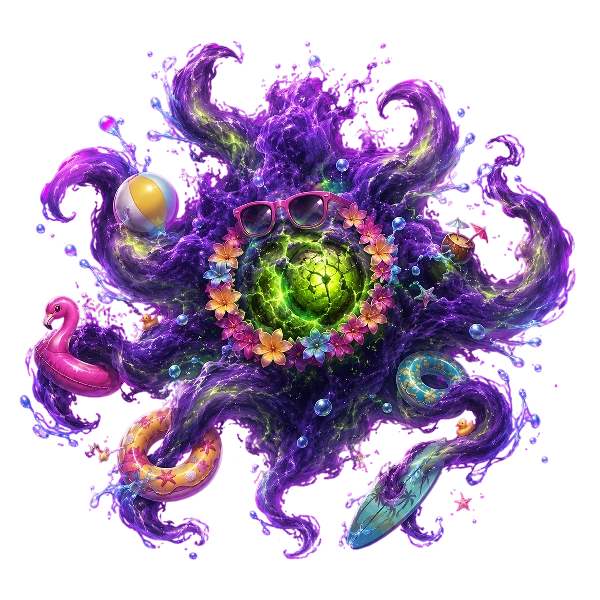
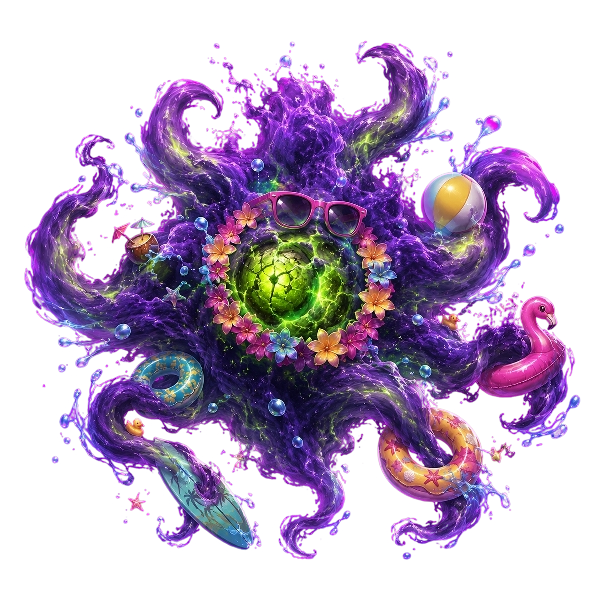
fix trample targeting

diff --git a/games/tactical-arena/src/main.js b/games/tactical-arena/src/main.js
@@ -3,7 +3,7 @@ import { UNIT_TYPES, getArt, getAvailableArts, getCommandBuffStats, getEffective
 import { areAllies, areEnemies, createBattleState, findUnit, isWallAt, unitAt } from "./core/state.js";
 import { canUseArt, getFirePlacementTiles, getFlightTiles, getFootworkStepOptions, getFootworkSteps, getLegalFleeTiles, getLineTargets, getProtectLandingTiles, getRevivePlacementTiles, getReviveTargets, getRushStepOptions, getRushSteps, getSelfBlastRadius, getSummonPlacementTiles, getTargetedBlastAimTiles, getVolleyShotAimOptions, getVolleyShotCells, getWallPlacementTiles } from "./rules/arts.js";
 import { getBasicAttackDamageType, isWallBetween } from "./rules/combat.js";
-import { chebyshevDistance, positionKey } from "./rules/movement.js";
+import { canTrample, chebyshevDistance, getTrampleMoveOptions, positionKey } from "./rules/movement.js";
 import { isStunned } from "./rules/statuses.js";
 import { applyCommand } from "./core/reducer.js";
 import { chooseActivation, cpuRng } from "./ai/cpuController.js";
@@ -257,12 +257,18 @@ function announceTurnChange(prevPlayer) {
 
 // --- Command dispatch ---
 
+// Set by every successful dispatch() so a caller that needs the resolved events
+// (e.g. a trampling MOVE_UNIT's harmed/damageByTarget/path) can read them without
+// dispatch() itself growing animation concerns.
+let lastDispatchEvents = [];
+
 function dispatch(command) {
   const result = applyCommand(state, command);
   if (!result.accepted) {
     setMessage(readableError(result.errorCode), true);
     return false;
   }
+  lastDispatchEvents = result.events ?? [];
   const prevPlayer = state.currentPlayer;
   state = result.nextState;
   broadcastIfLocal(command);
@@ -1420,7 +1426,67 @@ async function handleTile(position) {
     render();
     return;
   }
-  if (mode === "move") {
+  if (mode === "move" && canTrample(unit)) {
+    // RAGE Trample (Fat Knight): targeted exactly like Footwork/Stumble — one
+    // adjacent tile at a time via footworkPath, not a single click straight to a
+    // far destination. Landing on an enemy tramples it (true damage) and MUST
+    // continue; landing on an empty tile both is and commits the final step.
+    const options = getTrampleMoveOptions(state, unit, footworkPath);
+    if (!options.has(positionKey(position))) {
+      setMessage("Trample: choose the next highlighted tile.", true);
+      render();
+      return;
+    }
+    footworkPath.push(position);
+    if (unitAt(state, position)) {
+      const maxSteps = getEffectiveStats(unit, state).moveRange;
+      setMessage(`Trample: enemy crossed. Choose step ${footworkPath.length + 1} of up to ${maxSteps}.`);
+      render();
+      return;
+    }
+    const from = { ...unit.position };
+    const actorBefore = unit;
+    const path = [...footworkPath];
+    const dest = path[path.length - 1];
+    footworkPath = [];
+    if (dispatch(moveUnit(state.currentPlayer, unit.id, dest.x, dest.y, path))) {
+      const moved = lastDispatchEvents.find((e) => e.type === "UNIT_MOVED");
+      const completesActivation = state.activation?.primaryUsed;
+      mode = null;
+      setMessage(completesActivation ? "Moved. Activation complete." : "Moved. Now attack or defend to finish.");
+      resolving = true;
+      render();
+      // Give the harmed tiles the same dash + contact-hit presentation Footwork/
+      // Stumble use, instead of silently sliding past the units it just damaged.
+      if (moved?.harmed?.length) {
+        const metrics = createBoardMetrics(state.size);
+        const harmedByTile = new Map();
+        for (const id of moved.harmed) {
+          const target = findUnit(state, id);
+          if (target) harmedByTile.set(positionKey(target.position), target);
+        }
+        await effects.footworkCharge(actorBefore, moved.path, async (tile) => {
+          const target = harmedByTile.get(positionKey(tile));
+          if (!target) return;
+          const center = unitCenter(metrics, target);
+          audio.play("attackHit");
+          effects.impact(center, false, "true");
+          await effects.hitRecoil(target.id, target.position, false);
+          const amount = moved.damageByTarget?.[target.id] ?? 0;
+          await effects.floatText(center, `-${amount}`, "#ff7684");
+          if (target.hp <= 0) await effects.deathDissolve(target.id, target.position, teamColor(target.player));
+        });
+      } else {
+        await effects.animateMovement(unit.id, from, dest);
+      }
+      resolving = false;
+      if (completesActivation) maybeAutoFinish();
+      render();
+      return;
+    }
+    render();
+    return;
+  } else if (mode === "move") {
     const from = { ...unit.position };
     if (dispatch(moveUnit(state.currentPlayer, unit.id, position.x, position.y))) {
       const completesActivation = state.activation?.primaryUsed;
@@ -1746,6 +1812,8 @@ async function handleActionClick(action, unit) {
     rewindTargetId = null;
     if (deselect) {
       setMessage("Choose an action below.");
+    } else if (action === "move" && canTrample(unit)) {
+      setMessage(`Trample: choose step 1 of up to ${getEffectiveStats(unit, state).moveRange} — walking into an enemy tramples it for true damage.`);
     } else if (action === "footwork") {
       const footwork = getUnitType(unit.type).arts.find((a) => a.id === "footwork");
       setMessage(`Footwork (${footwork.mpCost} MP): ${footwork.description} Choose step 1 of ${getFootworkSteps(unit)}.`);

diff --git a/games/tactical-arena/src/rules/movement.js b/games/tactical-arena/src/rules/movement.js
@@ -49,7 +49,7 @@ export function traceGridLine(x0, y0, x1, y1) {
   return cells;
 }
 
-function canMoveThroughEnemies(unit) {
+export function canTrample(unit) {
   return Math.max(0, Number(getRageEffectValue(unit, "trampleDamage", 0)) || 0) > 0;
 }
 
@@ -69,7 +69,7 @@ export function getLegalMoves(state, unit) {
     }
     return legal;
   }
-  const passEnemies = canMoveThroughEnemies(unit);
+  const passEnemies = canTrample(unit);
   const queue = [{ ...unit.position, distance: 0 }];
   const visited = new Set([positionKey(unit.position)]);
   const legal = new Set();
@@ -93,10 +93,64 @@ export function getLegalMoves(state, unit) {
   return legal;
 }
 
+// RAGE Trample (Fat Knight) targets a NORMAL move the same way Footwork/Stumble
+// target a rushPath ART: click one orthogonal tile at a time, walking through
+// enemies for true damage, rather than a single click straight to a distant
+// destination. Unlike rushPath, the walk is variable-length (0..moveRange) — it
+// simply ends the instant `path` lands on an empty tile, so a click on an empty
+// tile is both "the next step" and "confirm the move" at once. `getTrampleMoveOptions`
+// mirrors getRushStepOptions (rules/arts.js) but bounds by effective moveRange
+// instead of a fixed extraMove length, and never forces "last step must be empty"
+// early — the player can keep walking through further enemies as long as at least
+// one more step remains to land on.
+export function getTrampleMoveOptions(state, actor, path) {
+  const maxSteps = getEffectiveStats(actor, state).moveRange;
+  if (path.length >= maxSteps) return new Set();
+  const prior = path.length ? path[path.length - 1] : actor.position;
+  const visited = new Set([positionKey(actor.position), ...path.map(positionKey)]);
+  const roomAfterThisStep = maxSteps - (path.length + 1);
+  const options = new Set();
+
+  for (const direction of ORTHOGONAL_DIRECTIONS) {
+    const candidate = { x: prior.x + direction.x, y: prior.y + direction.y };
+    const key = positionKey(candidate);
+    if (!isOnBoard(state, candidate) || visited.has(key) || isWallAt(state, candidate)) continue;
+    const occupant = unitAt(state, candidate);
+    if (occupant && (!areEnemies(actor, occupant) || roomAfterThisStep < 1)) continue;
+    options.add(key);
+  }
+  return options;
+}
+
+// Server-side validation for an explicit Trample move path (mirrors validateRushPath
+// in rules/arts.js): each step orthogonally adjacent to the last, on-board, unvisited,
+// never a wall; an occupied tile is only legal mid-path and only if it's an enemy
+// (the final step must land empty).
+export function validateTrampleMovePath(state, actor, path) {
+  const maxSteps = getEffectiveStats(actor, state).moveRange;
+  if (!Array.isArray(path) || path.length === 0 || path.length > maxSteps) return false;
+
+  let previous = actor.position;
+  const visited = new Set([positionKey(actor.position)]);
+  for (let index = 0; index < path.length; index += 1) {
+    const step = path[index];
+    const key = positionKey(step);
+    if (!isOnBoard(state, step) || visited.has(key) || !isOrthogonallyAdjacent(previous, step)) return false;
+    if (isWallAt(state, step)) return false;
+
+    const occupant = unitAt(state, step);
+    const isFinalStep = index === path.length - 1;
+    if (occupant && (!areEnemies(actor, occupant) || isFinalStep)) return false;
+    visited.add(key);
+    previous = step;
+  }
+  return true;
+}
+
 export function getLegalMovePath(state, unit, destination) {
   if (!destination || !getLegalMoves(state, unit).has(positionKey(destination))) return null;
   const maxSteps = getEffectiveStats(unit, state).moveRange;
-  const passEnemies = canMoveThroughEnemies(unit);
+  const passEnemies = canTrample(unit);
   const originKey = positionKey(unit.position);
   const targetKey = positionKey(destination);
   const queue = [{ position: { ...unit.position }, distance: 0, path: [] }];

diff --git a/games/tactical-arena/tests/fat-knight.test.js b/games/tactical-arena/tests/fat-knight.test.js
@@ -6,7 +6,7 @@ import { applyCommand } from "../src/core/reducer.js";
 import { attack, beginActivation, cancelMove, moveUnit, useArt } from "../src/core/commands.js";
 import { getEffectiveStats, getUnitType } from "../src/core/unitCatalog.js";
 import { getRushSteps } from "../src/rules/arts.js";
-import { getLegalMoves, positionKey } from "../src/rules/movement.js";
+import { getLegalMoves, getTrampleMoveOptions, positionKey } from "../src/rules/movement.js";
 import { getAbilityVfx } from "../src/ui/vfxCatalog.js";
 import { generatePlans, toCommands } from "../src/ai/plans.js";
 
@@ -123,6 +123,50 @@ test("RAGE Trample lets Fat Knight move through enemies and damages each enemy c
   assert.deepEqual(findUnit(result.nextState, "fk").position, { x: 7, y: 5 });
   assert.equal(findUnit(result.nextState, "e").hp, 22, "crossed enemy takes 3 true damage");
   assert.equal(getEffectiveStats(findUnit(result.nextState, "fk"), result.nextState).defense, 8);
+});
+
+test("RAGE Trample move is targeted tile-by-tile like Footwork/Stumble, not a single click to a far destination", () => {
+  const state = scenario([
+    { id: "fk", type: "fat-knight", player: 1, x: 5, y: 5, hp: 5 },
+    { id: "e1", type: "swordsman", player: 2, x: 6, y: 5 },
+    { id: "e2", type: "swordsman", player: 2, x: 8, y: 5 }
+  ]);
+  const fk = findUnit(state, "fk");
+
+  // Step 1 from the origin: only the immediate orthogonal neighbors, not the far
+  // destination — the enemy tile at (6,5) is offered (it can be trampled through,
+  // there's still room to land past it), the ally-free far tile is NOT a one-click option.
+  const step1 = getTrampleMoveOptions(state, fk, []);
+  assert.equal(step1.has(positionKey({ x: 6, y: 5 })), true, "the first enemy in line is a legal next step");
+  assert.equal(step1.has(positionKey({ x: 9, y: 5 })), false, "a distant tile is not directly selectable — must be walked step by step");
+  assert.equal(step1.has(positionKey({ x: 8, y: 5 })), false, "an enemy is only a legal step, not a shortcut past it");
+
+  // After stepping onto the first enemy's tile, the second enemy (adjacent to it) is
+  // NOT offered because trampling it would leave zero steps to land on empty ground
+  // (moveRange 2 only allows one more step after this one).
+  const step2 = getTrampleMoveOptions(state, fk, [{ x: 6, y: 5 }]);
+  assert.equal(step2.has(positionKey({ x: 7, y: 5 })), true, "empty tile beyond the first enemy is reachable and ends the move");
+  assert.equal(step2.has(positionKey({ x: 6, y: 4 })), true, "a sideways empty tile is also reachable");
+
+  let s = run(state, beginActivation(1, "fk")).nextState;
+  const result = run(s, moveUnit(1, "fk", 7, 5, [{ x: 6, y: 5 }, { x: 7, y: 5 }]));
+  assert.deepEqual(findUnit(result.nextState, "fk").position, { x: 7, y: 5 });
+  assert.equal(findUnit(result.nextState, "e1").hp, 22, "the crossed enemy takes 3 true damage");
+  assert.equal(findUnit(result.nextState, "e2").hp, 25, "an enemy off the walked path is untouched");
+});
+
+test("RAGE Trample rejects an explicit path that doesn't end on the clicked destination or skips a tile", () => {
+  const state = scenario([
+    { id: "fk", type: "fat-knight", player: 1, x: 5, y: 5, hp: 5 },
+    { id: "e", type: "swordsman", player: 2, x: 6, y: 5 }
+  ]);
+  let s = run(state, beginActivation(1, "fk")).nextState;
+
+  const mismatched = applyCommand(s, moveUnit(1, "fk", 7, 5, [{ x: 6, y: 5 }]));
+  assert.equal(mismatched.accepted, false, "path must end at the declared destination");
+
+  const skipped = applyCommand(s, moveUnit(1, "fk", 8, 5, [{ x: 8, y: 5 }]));
+  assert.equal(skipped.accepted, false, "path steps must be orthogonally adjacent, not a jump");
 });
 
 test("RAGE Trample movement cannot be cancelled after it is committed", () => {

diff --git a/games/tactical-arena/src/core/reducer.js b/games/tactical-arena/src/core/reducer.js
@@ -3,7 +3,7 @@ import { resolveNemesisAutoPulse, resolveVolcanicPyroclasmTick, useArt } from ".
 import { getEffectiveStats, getPoisonMpRefund, getRageAttackStatus, getRageEffectValue, getUnitType, isCommandOnly, isDefending, isRaging, takesTurns } from "./unitCatalog.js";
 import { areEnemies, cloneState, findUnit, isWallAt, livingUnits, unitAt } from "./state.js";
 import { getBasicAttackDamageType, getCritCreatesFire, getCritOnHitStatus, getLineAttackTargets, getMeleeDefendRetaliation, isHealingDisabled, isShotBlocked, isWallBetween, resolveBaseStrike, rollToHit } from "../rules/combat.js";
-import { chebyshevDistance, getLegalMovePath, getLegalMoves, positionKey } from "../rules/movement.js";
+import { chebyshevDistance, getLegalMovePath, getLegalMoves, positionKey, validateTrampleMovePath } from "../rules/movement.js";
 import { applyStatus, isStunned } from "../rules/statuses.js";
 import { alliesInRadius, getStanceEffect } from "../rules/stances.js";
 import { applyGrowth, applyMagicDamageReaction, applyRockHardDefense, resolvePhysicalDamageHealing } from "./combatEffects.js";
@@ -153,12 +153,23 @@ function moveUnit(state, command) {
   if (result.error) return reject(result.error);
   if (isCommandOnly(result.unit)) return reject(ERR.COMMANDER_CANNOT_ACT);
   if (state.activation.moved) return reject(ERR.MOVE_ALREADY_USED);
-  if (!getLegalMoves(state, result.unit).has(positionKey(command.position))) return reject(ERR.MOVE_OUT_OF_RANGE);
+
+  let path;
+  if (command.path) {
+    // An explicit tile-by-tile route (Trample's step-by-step targeting). Must
+    // validate as a legal walk AND actually end on the clicked destination.
+    if (!validateTrampleMovePath(state, result.unit, command.path)) return reject(ERR.MOVE_OUT_OF_RANGE);
+    const last = command.path[command.path.length - 1];
+    if (last.x !== command.position.x || last.y !== command.position.y) return reject(ERR.MOVE_OUT_OF_RANGE);
+    path = command.path.map((step) => ({ ...step }));
+  } else {
+    if (!getLegalMoves(state, result.unit).has(positionKey(command.position))) return reject(ERR.MOVE_OUT_OF_RANGE);
+    path = getLegalMovePath(state, result.unit, command.position) ?? [{ ...command.position }];
+  }
 
   const next = cloneState(state);
   const unit = findUnit(next, command.unitId);
   const from = { ...unit.position };
-  const path = getLegalMovePath(state, result.unit, command.position) ?? [{ ...command.position }];
   const trampleDamage = Math.max(0, Number(getRageEffectValue(unit, "trampleDamage", 0)) || 0);
   const harmed = [];
   const damageByTarget = {};

diff --git a/games/tactical-arena/src/ui/boardRenderer.js b/games/tactical-arena/src/ui/boardRenderer.js
@@ -3,7 +3,7 @@ import { createUnitFigure } from "./unitRenderer.js";
 import { createBoardMetrics, createBoardViewBox, getBoardDiamond, gridToScreen, pointsToString } from "./isometric.js";
 import { getArt, getAuraSources, getEffectiveStats } from "../core/unitCatalog.js";
 import { areEnemies, getTileAffinity, unitAt } from "../core/state.js";
-import { chebyshevDistance, getLegalMoves, isOnBoard, positionKey } from "../rules/movement.js";
+import { canTrample, chebyshevDistance, getLegalMoves, getTrampleMoveOptions, isOnBoard, positionKey } from "../rules/movement.js";
 import { isShotBlocked, isWallBetween } from "../rules/combat.js";
 import { artIsBodyBlocked, getArtTargetRange, getFirePlacementTiles, getFlightTiles, getFootworkStepOptions, getLegalFleeTiles, getLineReachTiles, getLineTargets, getProtectLandingTiles, getPyroclasmReachTiles, getPyroclasmTargets, getRevivePlacementTiles, getRushStepOptions, getSelfBlastRadius, getSummonPlacementTiles, getTargetedBlastAimTiles, getTargetedBlastFootprint, getVolleyShotAimOptions, getVolleyShotCells, getWallPlacementTiles } from "../rules/arts.js";
 
@@ -213,7 +213,10 @@ export function renderBoard({ board, boardLayer, unitsLayer, state, mode, select
   const actor = selectedId ? state.units.find((u) => u.id === selectedId) : null;
   const targeted = isTargetedMode(mode, actor);
 
-  if (mode === "move") legal = getLegalMoves(state, actor);
+  // RAGE Trample (Fat Knight): targeted exactly like Footwork/Stumble's rushPath —
+  // one adjacent tile at a time via footworkPath — instead of the plain
+  // click-anywhere-in-range destination set every other unit's move uses.
+  if (mode === "move") legal = (actor && canTrample(actor)) ? getTrampleMoveOptions(state, actor, footworkPath) : getLegalMoves(state, actor);
 
   if (actor && targeted) {
     // Basic attacks are body-blocked unless the attacker has an explicit pierce passive

diff --git a/games/tactical-arena/src/core/commands.js b/games/tactical-arena/src/core/commands.js
@@ -10,7 +10,11 @@ export const COMMANDS = Object.freeze({
 });
 
 export const beginActivation = (player, unitId) => ({ type: COMMANDS.BEGIN_ACTIVATION, player, unitId });
-export const moveUnit = (player, unitId, x, y) => ({ type: COMMANDS.MOVE_UNIT, player, unitId, position: { x, y } });
+// `path` optionally pins the exact tile-by-tile route (Trample's step-by-step
+// targeting, mirroring a rushPath ART) — omit it for a plain destination click,
+// which the reducer resolves via its own shortest-path search.
+export const moveUnit = (player, unitId, x, y, path = null) =>
+  ({ type: COMMANDS.MOVE_UNIT, player, unitId, position: { x, y }, ...(path ? { path } : {}) });
 export const cancelMove = (player, unitId) => ({ type: COMMANDS.CANCEL_MOVE, player, unitId });
 // `rolls` optionally pins the to-hit/crit draws ({ attackRoll, critRoll }) for
 // deterministic tests and recorded replay; live play omits it and the reducer